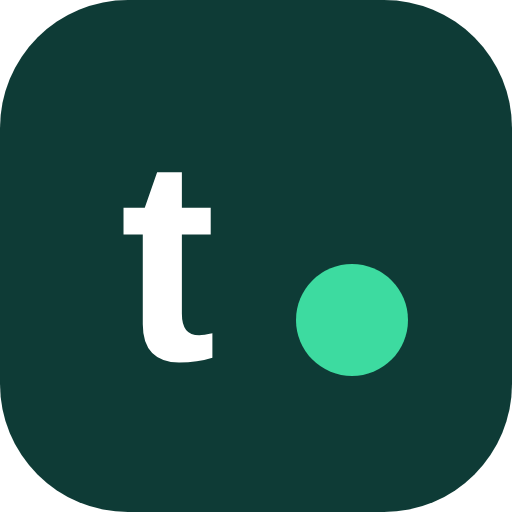
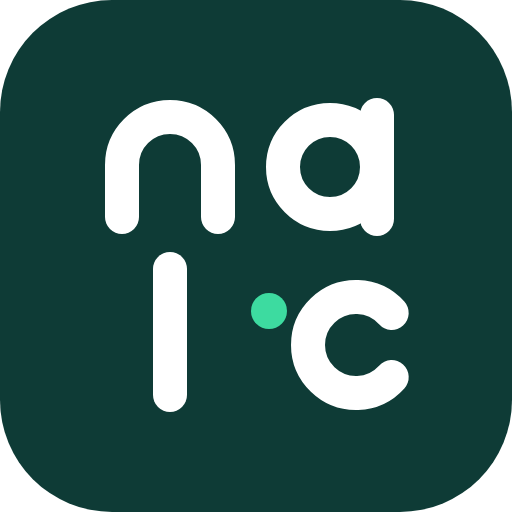
앱 아이콘: t· 대신 n·a·l·°c를 2×2로 배치한 아이콘
- 글꼴 없이 선과 원으로 그린 SVG에서 탭 아이콘·홈 화면 아이콘(PNG)을 만듦
- 이미 설치된 앱이 새 아이콘을 받도록 manifest 아이콘 파일 이름을 바꿈 (예전 이름도 새 그림으로 유지)

Claude-Session: https://claude.ai/code/session_01LFfJu9RsvY72ySUsHfD7Fr

diff --git a/src/app/manifest.ts b/src/app/manifest.ts
@@ -13,9 +13,9 @@ export default function manifest(): MetadataRoute.Manifest {
     theme_color: "#0E3B36",
     lang: "ko",
     icons: [
-      { src: "/icon-192.png", sizes: "192x192", type: "image/png" },
-      { src: "/icon-512.png", sizes: "512x512", type: "image/png" },
-      { src: "/icon-maskable-512.png", sizes: "512x512", type: "image/png", purpose: "maskable" },
+      { src: "/icon-v2-192.png", sizes: "192x192", type: "image/png" },
+      { src: "/icon-v2-512.png", sizes: "512x512", type: "image/png" },
+      { src: "/icon-v2-maskable-512.png", sizes: "512x512", type: "image/png", purpose: "maskable" },
     ],
   };
 }

diff --git a/public/sw.js b/public/sw.js
@@ -12,8 +12,8 @@ self.addEventListener("push", (e) => {
   e.waitUntil(
     self.registration.showNotification(data.title || "트립날씨", {
       body: data.body || "",
-      icon: "/icon-192.png",
-      badge: "/icon-192.png",
+      icon: "/icon-v2-192.png",
+      badge: "/icon-v2-192.png",
       tag: data.tag,
       data: { url: data.url || "/" },
     }),
